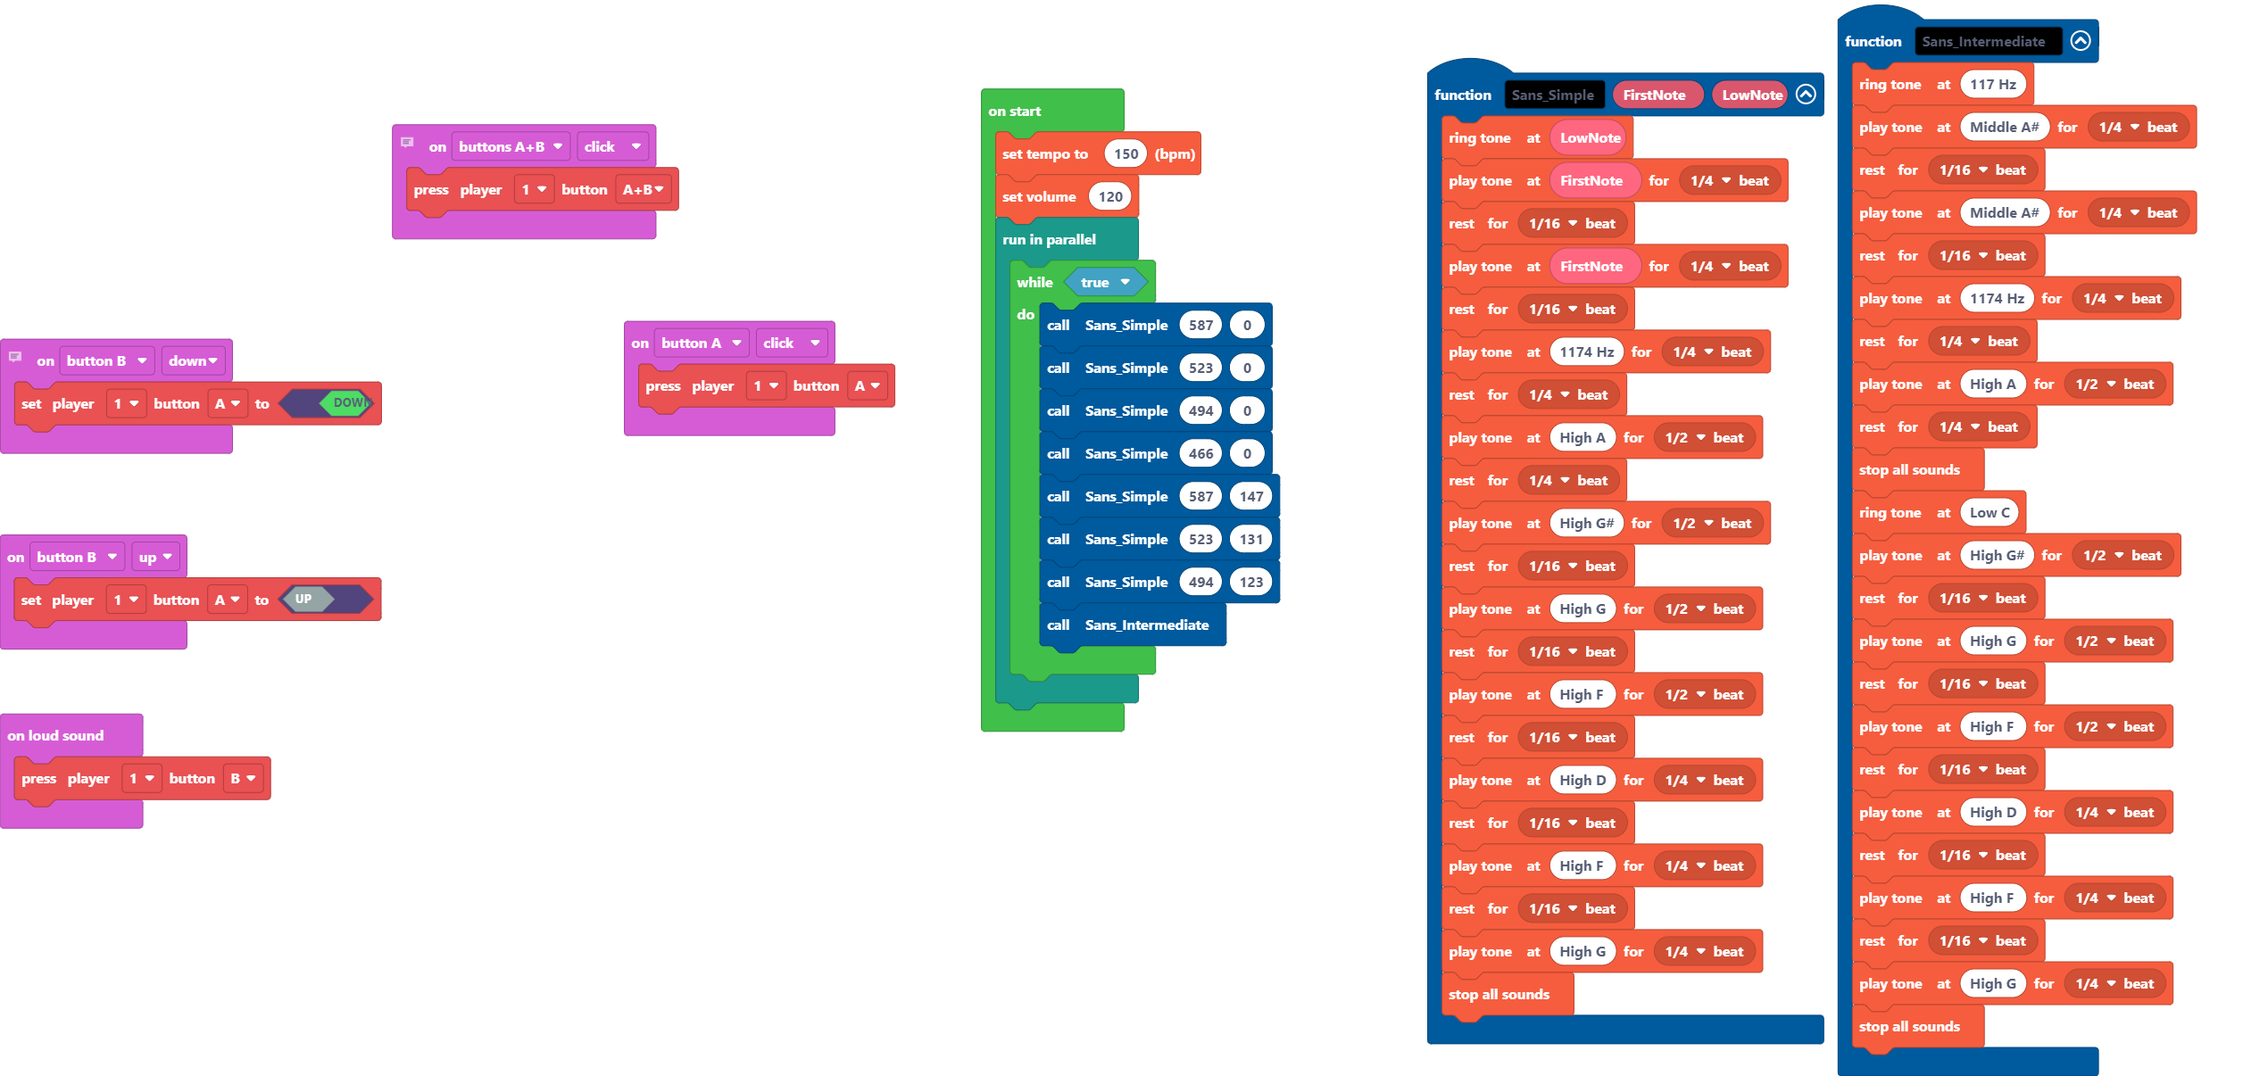
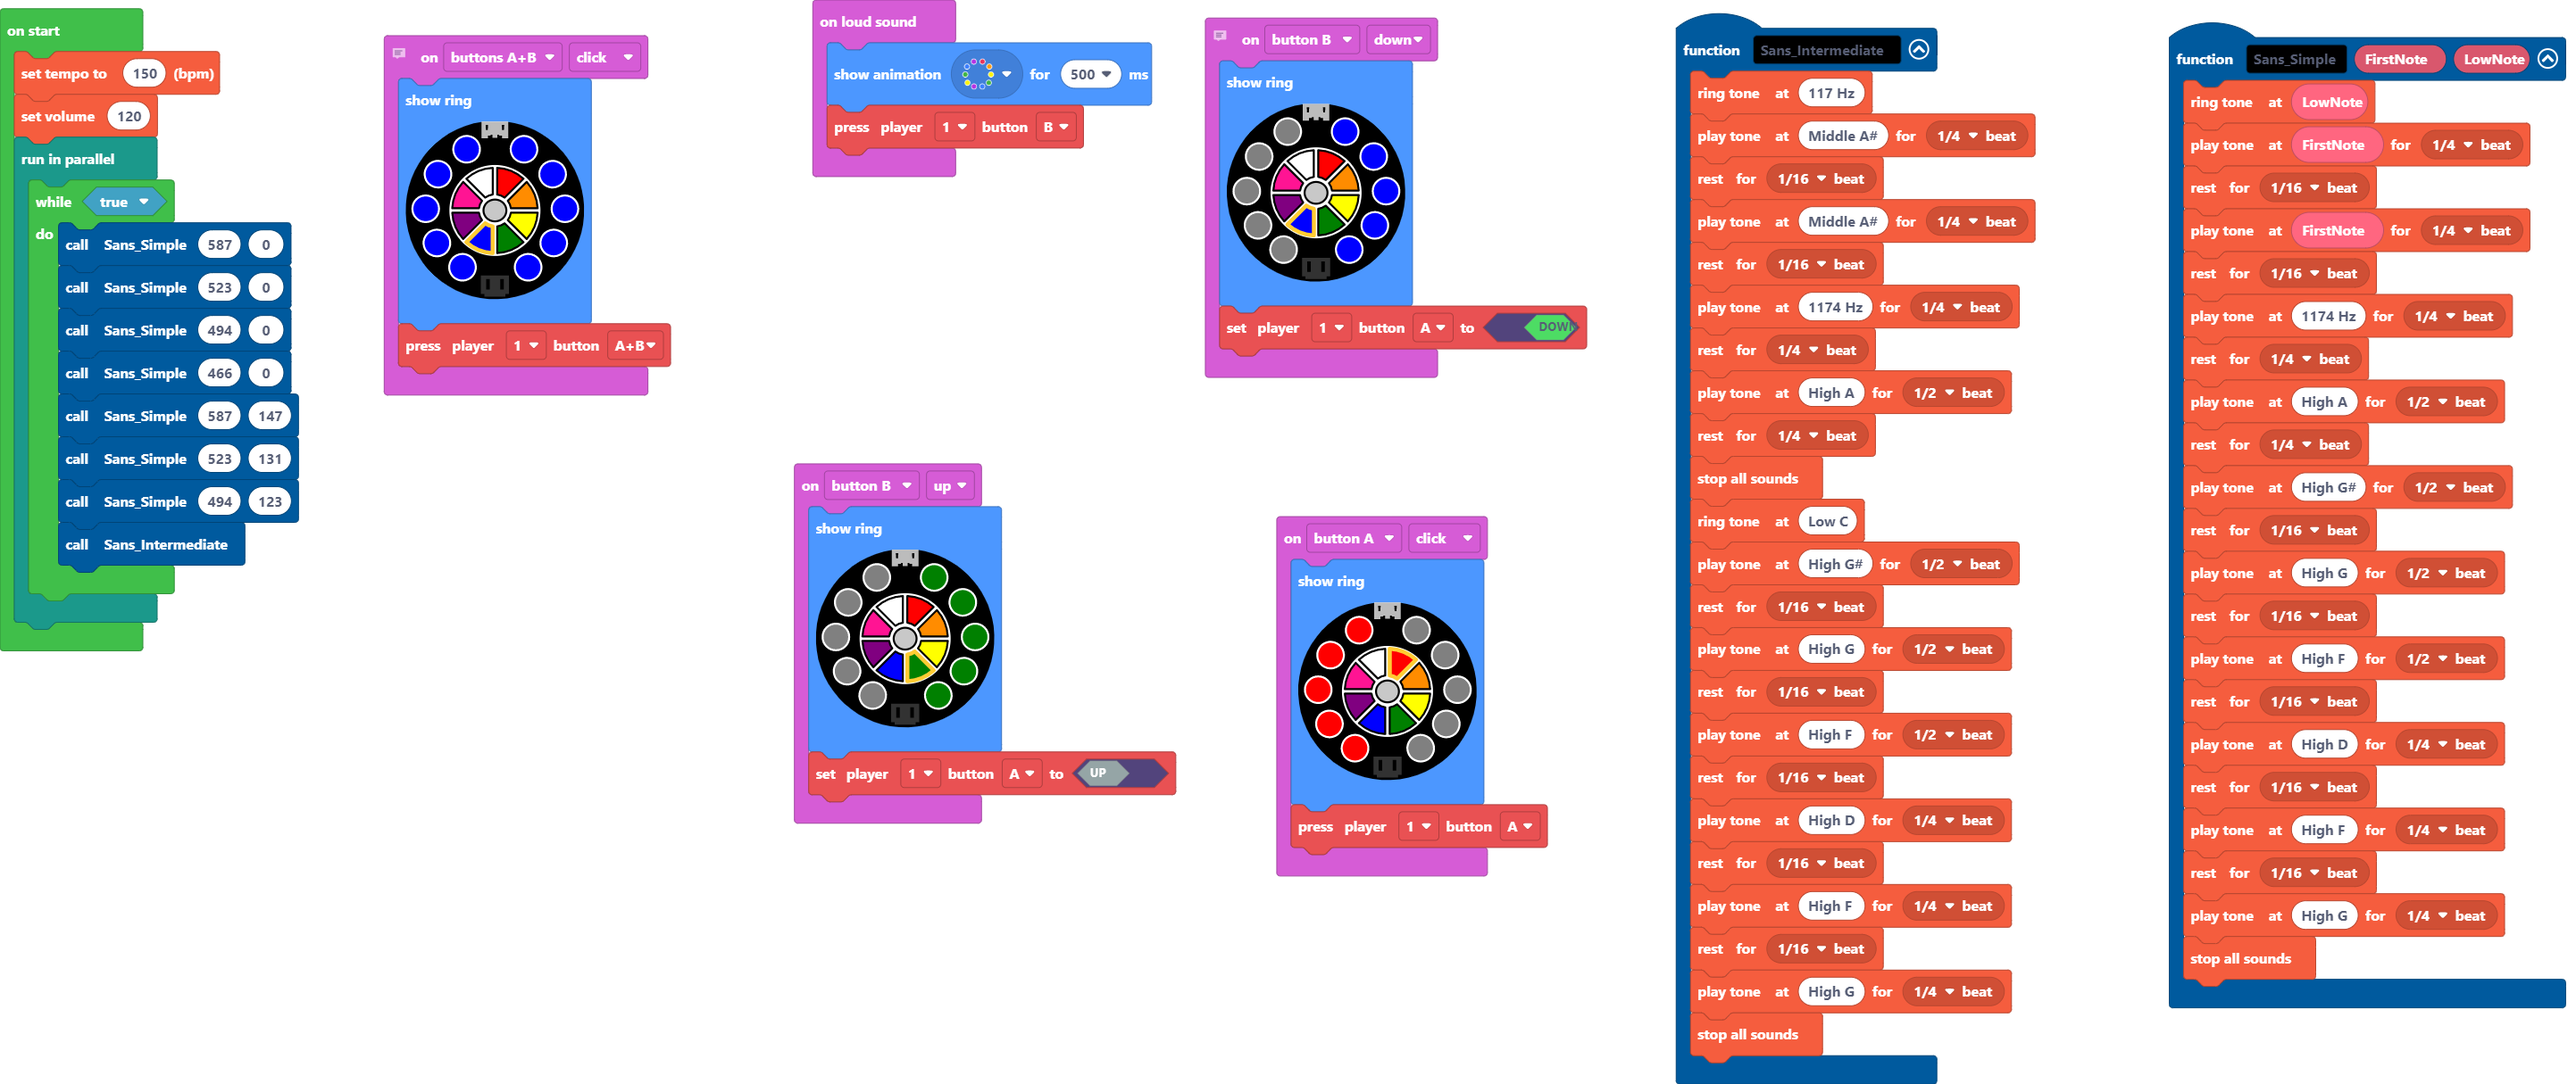
Update main.blocks, main.ts

diff --git a/main.ts b/main.ts
@@ -1,12 +1,19 @@
 // gravity
 input.buttonsAB.onEvent(ButtonEvent.Click, function () {
+    light.showRing(
+    `blue blue blue blue blue blue blue blue blue blue`
+    )
     makerController.player1.press(ArcadeButton.AB)
 })
 input.onLoudSound(function () {
+    light.showAnimation(light.rainbowAnimation, 500)
     makerController.player1.press(ArcadeButton.B)
 })
 // Jetpack
 input.buttonB.onEvent(ButtonEvent.Down, function () {
+    light.showRing(
+    `black black black black black blue blue blue blue blue`
+    )
     makerController.player1.setButton(ArcadeButton.A, true)
 })
 function Sans_Intermediate () {
@@ -35,9 +42,15 @@ function Sans_Intermediate () {
     music.stopAllSounds()
 }
 input.buttonA.onEvent(ButtonEvent.Click, function () {
+    light.showRing(
+    `red red red red red black black black black black`
+    )
     makerController.player1.press(ArcadeButton.A)
 })
 input.buttonB.onEvent(ButtonEvent.Up, function () {
+    light.showRing(
+    `black black black black black green green green green green`
+    )
     makerController.player1.setButton(ArcadeButton.A, false)
 })
 function Sans_Simple (FirstNote: number, LowNote: number) {
